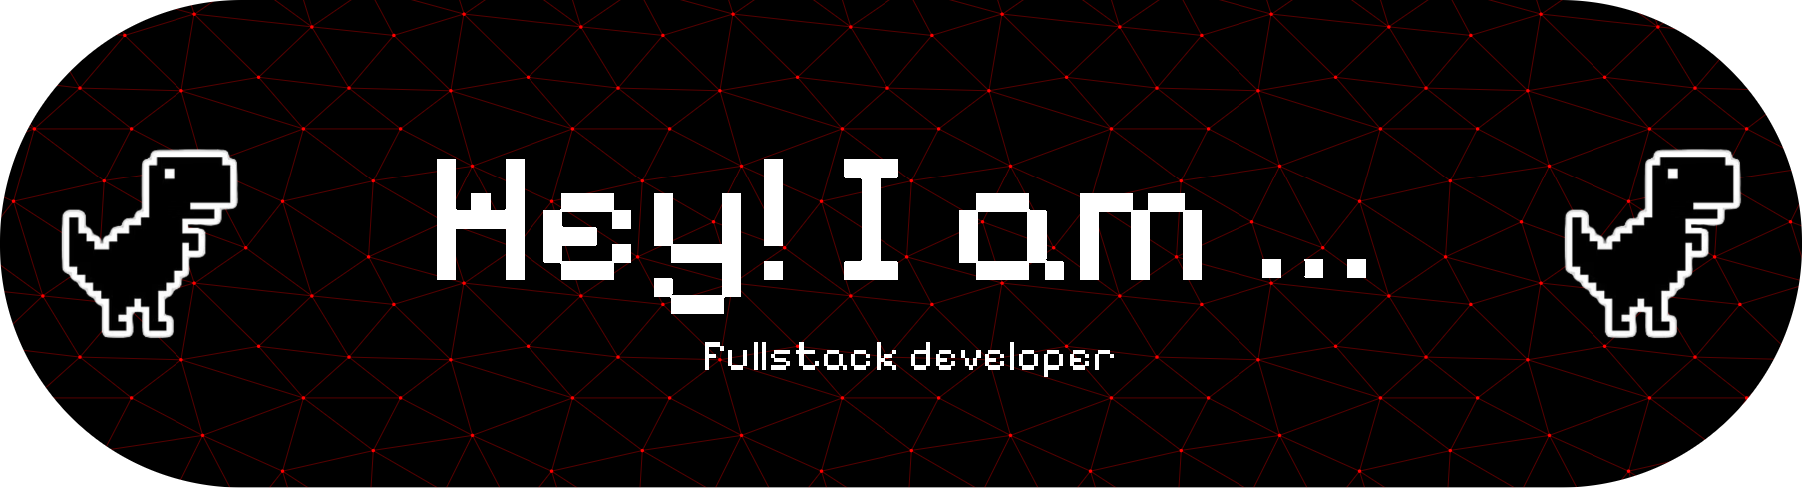
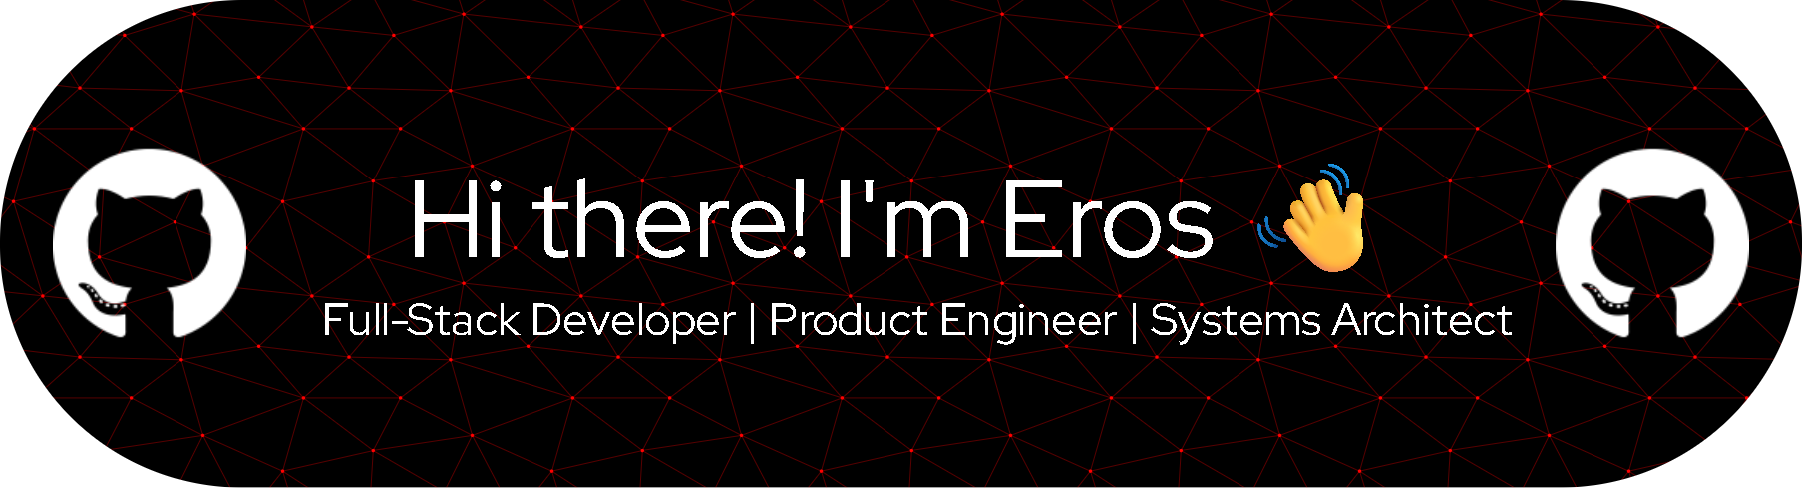
a

Changed region(s): [[0.1865, 0.3074, 0.8391, 0.7684], [0.8391, 0.3074, 0.9945, 0.707], [0.0311, 0.3074, 0.1554, 0.707]]

diff --git a/README.md b/README.md
@@ -1,21 +1,4 @@
-# Hi there! I'm Eros 👋
 ![Header](./github-header-banner.png)
-## 🔄 Latest Activity
-<p align="left">
-  <img src="https://github-readme-activity-graph.vercel.app/graph?username=ness-e&theme=radical&area=true&hide_border=true" width="100%" />
-</p>
-### 🔍 Diagnostic Tooling
-<p align="left">
-  <img src="https://img.shields.io/badge/Chrome_DevTools-929292?style=flat-square&logo=google-chrome&logoColor=white" />
-  <img src="https://img.shields.io/badge/Postman-FF6C37?style=flat-square&logo=postman&logoColor=white" />
-  <img src="https://img.shields.io/badge/Sentry-362D59?style=flat-square&logo=sentry&logoColor=white" />
-  <img src="https://img.shields.io/badge/Linux_Terminal-000000?style=flat-square&logo=linux&logoColor=white" />
-</p>
-<p align="right">
-  <img src="https://komarev.com/ghpvc/?username=ness-e&color=007ACC&style=flat-square&label=PROFILE+VIEWS" alt="Profile Views" />
-</p>
-
-## Full-Stack Developer | Product Engineer | Systems Architect
 
 <p align="left">
   <img src="https://img.shields.io/badge/Experience-5+%20Years-007ACC?style=flat&logo=codeforces&logoColor=white" />
@@ -31,8 +14,6 @@ Software Engineer specialized in the intersection of **legacy systems and modern
 
 ## 🛠 Technical Expertise & Domains
 
-A curated view of my technological ecosystem classified by impact:
-
 <p align="center">
   <img src="https://skillicons.dev/icons?i=js,typescript,nextjs,nodejs,nestjs,php,postgres,prisma,tailwind,docker,react" alt="My Tech Stack" />
 </p>
@@ -45,6 +26,14 @@ A curated view of my technological ecosystem classified by impact:
 | **DevOps & Admin** | **Remote Debugging (Android/Chrome)**, CPanel, Apache, Domain Mgmt. |
 | **UI/UX Solutions** | MaterializeCSS, Internal SaaS Design for workflow optimization. |
 
+### 🔍 Diagnostic Tooling
+<p align="left">
+  <img src="https://img.shields.io/badge/Chrome_DevTools-929292?style=flat-square&logo=google-chrome&logoColor=white" />
+  <img src="https://img.shields.io/badge/Postman-FF6C37?style=flat-square&logo=postman&logoColor=white" />
+  <img src="https://img.shields.io/badge/Sentry-362D59?style=flat-square&logo=sentry&logoColor=white" />
+  <img src="https://img.shields.io/badge/Linux_Terminal-000000?style=flat-square&logo=linux&logoColor=white" />
+</p>
+
 ---
 
 ## 🧠 Value Proposition: "The Troubleshooter"
@@ -56,6 +45,13 @@ My focus goes beyond writing code; I optimize complex systems to ensure business
 * **Solutions Engineering:** Designing and deploying internal tools (SaaS) to eliminate operational friction and technical debt.
 * **Technical Leadership:** Mentoring upcoming talent while establishing high-quality engineering standards and best practices.
 * **AI Strategy:** Implementing Large Language Models to automate internal processes and enhance existing product capabilities.
+
+---
+
+## 🔄 Latest Activity
+<p align="left">
+  <img src="https://github-readme-activity-graph.vercel.app/graph?username=ness-e&theme=radical&area=true&hide_border=true" width="100%" />
+</p>
 
 ---
 
@@ -73,4 +69,8 @@ Looking for someone who masters the code of the past to build the AI-driven futu
   <a href="mailto:eros.messy@gmail.com">
     <img src="https://img.shields.io/badge/Email-D14836?style=flat&logo=gmail&logoColor=white" />
   </a>
+</p>
+
+<p align="right">
+  <img src="https://komarev.com/ghpvc/?username=ness-e&color=007ACC&style=flat-square&label=PROFILE+VIEWS" alt="Profile Views" />
 </p>
